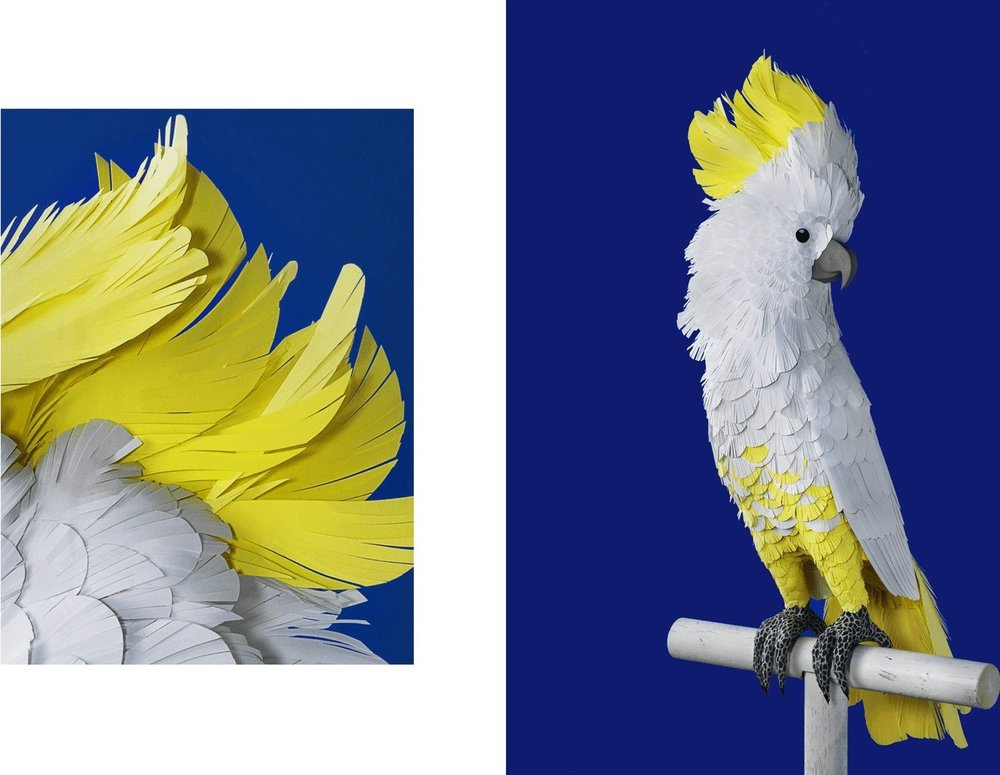
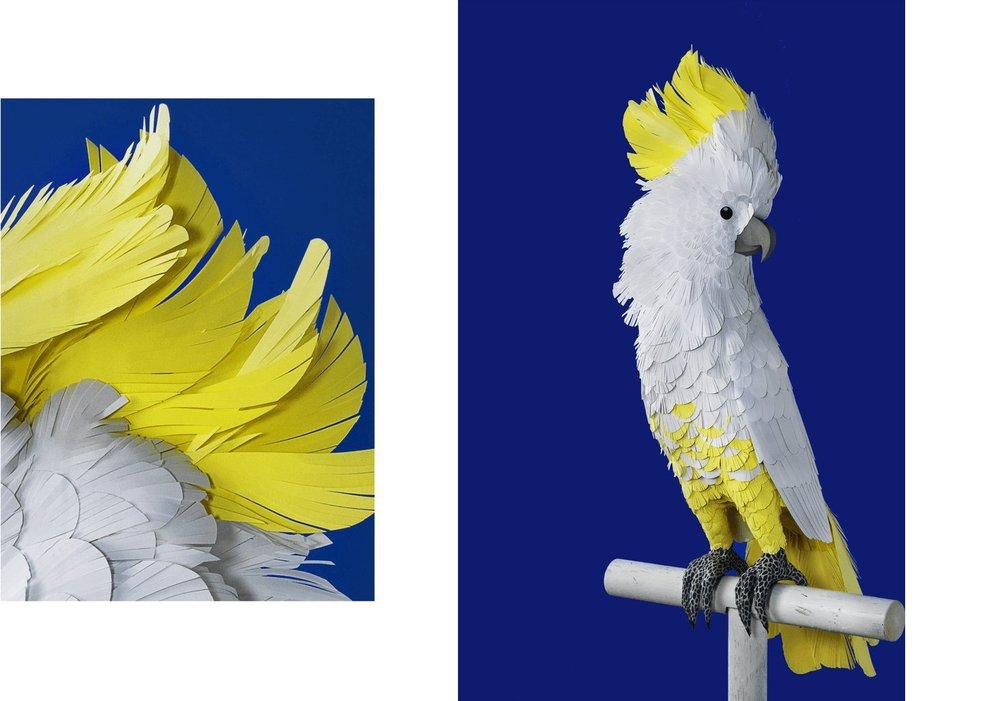
Images doubles au gabarit exact : les blancs du milieu s'alignent d'une rangee a l'autre

diff --git a/en/projects.html b/en/projects.html
@@ -26,11 +26,11 @@
   <a class="pj rv" href="p-klassic-eyewear" style="--c:#36557a" data-rub="Animation et film"><span class="pj__im"><img src="../img/projets/klassic-eyewear/00_m.jpg" srcset="../img/projets/klassic-eyewear/00_t.jpg 292w, ../img/projets/klassic-eyewear/00_m.jpg 562w, ../img/projets/klassic-eyewear/00.jpg 900w" sizes="(max-width:760px) 100vw, 700px" width="900" height="1600" alt="Klassic Eyewear, Shape of Joy" loading="lazy" decoding="async"></span><span class="pj__t"><b>Klassic Eyewear, Shape of Joy</b><span class="pj__s">Apollo Thomas · Klassic Eyewear</span><span class="mi">Animation and film</span></span></a>
   <a class="pj rv" href="p-burberry-beauty" style="--c:#899dbe" data-rub="Campagnes"><span class="pj__im"><img src="../img/projets/burberry-beauty/01_m.jpg" srcset="../img/projets/burberry-beauty/01_t.jpg 520w, ../img/projets/burberry-beauty/01_m.jpg 1000w, ../img/projets/burberry-beauty/01.jpg 1252w" sizes="(max-width:760px) 100vw, 700px" width="1252" height="1252" alt="Burberry Beauty, Goddess et Hero" loading="lazy" decoding="async"></span><span class="pj__t"><b>Burberry Beauty, Goddess et Hero</b><span class="pj__s">Mathilde Loubes · Burberry Beauty</span><span class="mi">Campaigns</span></span></a>
   <a class="pj rv" href="p-chanel-coco-crush" style="--c:#fee232" data-rub="Animation et film"><span class="pj__im"><img src="../img/projets/chanel-coco-crush/00_m.jpg" srcset="../img/projets/chanel-coco-crush/00_t.jpg 520w, ../img/projets/chanel-coco-crush/00_m.jpg 600w, ../img/projets/chanel-coco-crush/00.jpg 600w" sizes="(max-width:760px) 100vw, 700px" width="600" height="338" alt="Chanel, Coco Crush" loading="lazy" decoding="async"></span><span class="pj__t"><b>Chanel, Coco Crush</b><span class="pj__s">Clément Soulmagnon · Chanel</span><span class="mi">Animation and film</span></span></a>
-  <a class="pj rv" href="p-contes-des-fetes-2023" style="--c:#bf4d82" data-rub="Animation et film"><span class="pj__im"><img src="../img/projets/contes-des-fetes-2023/00_m.jpg" srcset="../img/projets/contes-des-fetes-2023/00_t.jpg 520w, ../img/projets/contes-des-fetes-2023/00_m.jpg 1000w, ../img/projets/contes-des-fetes-2023/00.jpg 1447w" sizes="(max-width:760px) 100vw, 700px" width="1447" height="1035" alt="Trois contes pour les fêtes 2023" loading="lazy" decoding="async"></span><span class="pj__t"><b>Trois contes pour les fêtes 2023</b><span class="pj__s">Lila Poppins · Eddy</span><span class="mi">Animation and film</span></span></a>
+  <a class="pj rv" href="p-contes-des-fetes-2023" style="--c:#bf4d82" data-rub="Animation et film"><span class="pj__im"><img src="../img/projets/contes-des-fetes-2023/00_m.jpg" srcset="../img/projets/contes-des-fetes-2023/00_t.jpg 520w, ../img/projets/contes-des-fetes-2023/00_m.jpg 1000w, ../img/projets/contes-des-fetes-2023/00.jpg 1476w" sizes="(max-width:760px) 100vw, 700px" width="1476" height="1035" alt="Trois contes pour les fêtes 2023" loading="lazy" decoding="async"></span><span class="pj__t"><b>Trois contes pour les fêtes 2023</b><span class="pj__s">Lila Poppins · Eddy</span><span class="mi">Animation and film</span></span></a>
   <a class="pj rv" href="p-apple-store-champs-elysees" style="--c:#fee232" data-rub="Scénographie et installations"><span class="pj__im"><img src="../img/projets/apple-store-champs-elysees/00_m.jpg" srcset="../img/projets/apple-store-champs-elysees/00_t.jpg 346w, ../img/projets/apple-store-champs-elysees/00_m.jpg 665w, ../img/projets/apple-store-champs-elysees/00.jpg 1064w" sizes="(max-width:760px) 100vw, 700px" width="1064" height="1600" alt="Apple Store Champs-Élysées" loading="lazy" decoding="async"></span><span class="pj__t"><b>Apple Store Champs-Élysées</b><span class="pj__s">Clément Soulmagnon · Apple</span><span class="mi">Set design and installations</span></span></a>
   <a class="pj rv" href="p-coty-infinity" style="--c:#bf4d82" data-rub="Scénographie et installations"><span class="pj__im"><img src="../img/projets/coty-infinity/00_m.jpg" srcset="../img/projets/coty-infinity/00_t.jpg 520w, ../img/projets/coty-infinity/00_m.jpg 1000w, ../img/projets/coty-infinity/00.jpg 1476w" sizes="(max-width:760px) 100vw, 700px" width="1476" height="1035" alt="Coty, Infinity" loading="lazy" decoding="async"></span><span class="pj__t"><b>Coty, Infinity</b><span class="pj__s">Lila Poppins · Coty</span><span class="mi">Set design and installations</span></span></a>
   <a class="pj rv" href="p-hermes-china-world" style="--c:#fee232" data-rub="Animation et film"><span class="pj__im"><img src="../img/projets/hermes-china-world/00_m.jpg" srcset="../img/projets/hermes-china-world/00_t.jpg 520w, ../img/projets/hermes-china-world/00_m.jpg 1000w, ../img/projets/hermes-china-world/00.jpg 1280w" sizes="(max-width:760px) 100vw, 700px" width="1280" height="720" alt="Hermès, China World" loading="lazy" decoding="async"></span><span class="pj__t"><b>Hermès, China World</b><span class="pj__s">Clément Soulmagnon · Hermès</span><span class="mi">Animation and film</span></span></a>
-  <a class="pj rv" href="p-aeroports-de-paris-la-parade" style="--c:#bf4d82" data-rub="Scénographie et installations"><span class="pj__im"><img src="../img/projets/aeroports-de-paris-la-parade/00_m.jpg" srcset="../img/projets/aeroports-de-paris-la-parade/00_t.jpg 520w, ../img/projets/aeroports-de-paris-la-parade/00_m.jpg 1000w, ../img/projets/aeroports-de-paris-la-parade/00.jpg 1456w" sizes="(max-width:760px) 100vw, 700px" width="1456" height="1035" alt="Aéroports de Paris, La Parade" loading="lazy" decoding="async"></span><span class="pj__t"><b>Aéroports de Paris, La Parade</b><span class="pj__s">Lila Poppins · Aéroports de Paris</span><span class="mi">Set design and installations</span></span></a>
+  <a class="pj rv" href="p-aeroports-de-paris-la-parade" style="--c:#bf4d82" data-rub="Scénographie et installations"><span class="pj__im"><img src="../img/projets/aeroports-de-paris-la-parade/00_m.jpg" srcset="../img/projets/aeroports-de-paris-la-parade/00_t.jpg 520w, ../img/projets/aeroports-de-paris-la-parade/00_m.jpg 1000w, ../img/projets/aeroports-de-paris-la-parade/00.jpg 1476w" sizes="(max-width:760px) 100vw, 700px" width="1476" height="1035" alt="Aéroports de Paris, La Parade" loading="lazy" decoding="async"></span><span class="pj__t"><b>Aéroports de Paris, La Parade</b><span class="pj__s">Lila Poppins · Aéroports de Paris</span><span class="mi">Set design and installations</span></span></a>
   <a class="pj rv" href="p-marie-claire-vintage-love" style="--c:#bf4d82" data-rub="Édition et presse"><span class="pj__im"><img src="../img/projets/marie-claire-vintage-love/00_m.jpg" srcset="../img/projets/marie-claire-vintage-love/00_t.jpg 520w, ../img/projets/marie-claire-vintage-love/00_m.jpg 1000w, ../img/projets/marie-claire-vintage-love/00.jpg 1476w" sizes="(max-width:760px) 100vw, 700px" width="1476" height="1035" alt="Marie Claire, Vintage love" loading="lazy" decoding="async"></span><span class="pj__t"><b>Marie Claire, Vintage love</b><span class="pj__s">Lila Poppins · Marie Claire</span><span class="mi">Publishing and press</span></span></a>
   <a class="pj rv" href="p-fete-du-cinema-d-animation" style="--c:#6c94a0" data-rub="Affiches et prints"><span class="pj__im"><img src="../img/projets/fete-du-cinema-d-animation/00_m.jpg" srcset="../img/projets/fete-du-cinema-d-animation/00_t.jpg 348w, ../img/projets/fete-du-cinema-d-animation/00_m.jpg 669w, ../img/projets/fete-du-cinema-d-animation/00.jpg 1071w" sizes="(max-width:760px) 100vw, 700px" width="1071" height="1600" alt="Affiche de la 25e Fête du cinéma d'animation" loading="lazy" decoding="async"></span><span class="pj__t"><b>Affiche de la 25e Fête du cinéma d'animation</b><span class="pj__s">Chloé Farr · AFCA</span><span class="mi">Posters and prints</span></span></a>
  </div>

diff --git a/projects.html b/projects.html
@@ -26,11 +26,11 @@
   <a class="pj rv" href="p-klassic-eyewear" style="--c:#36557a" data-rub="Animation et film"><span class="pj__im"><img src="img/projets/klassic-eyewear/00_m.jpg" srcset="img/projets/klassic-eyewear/00_t.jpg 292w, img/projets/klassic-eyewear/00_m.jpg 562w, img/projets/klassic-eyewear/00.jpg 900w" sizes="(max-width:760px) 100vw, 700px" width="900" height="1600" alt="Klassic Eyewear, Shape of Joy" loading="lazy" decoding="async"></span><span class="pj__t"><b>Klassic Eyewear, Shape of Joy</b><span class="pj__s">Apollo Thomas · Klassic Eyewear</span><span class="mi">Animation et film</span></span></a>
   <a class="pj rv" href="p-burberry-beauty" style="--c:#899dbe" data-rub="Campagnes"><span class="pj__im"><img src="img/projets/burberry-beauty/01_m.jpg" srcset="img/projets/burberry-beauty/01_t.jpg 520w, img/projets/burberry-beauty/01_m.jpg 1000w, img/projets/burberry-beauty/01.jpg 1252w" sizes="(max-width:760px) 100vw, 700px" width="1252" height="1252" alt="Burberry Beauty, Goddess et Hero" loading="lazy" decoding="async"></span><span class="pj__t"><b>Burberry Beauty, Goddess et Hero</b><span class="pj__s">Mathilde Loubes · Burberry Beauty</span><span class="mi">Campagnes</span></span></a>
   <a class="pj rv" href="p-chanel-coco-crush" style="--c:#fee232" data-rub="Animation et film"><span class="pj__im"><img src="img/projets/chanel-coco-crush/00_m.jpg" srcset="img/projets/chanel-coco-crush/00_t.jpg 520w, img/projets/chanel-coco-crush/00_m.jpg 600w, img/projets/chanel-coco-crush/00.jpg 600w" sizes="(max-width:760px) 100vw, 700px" width="600" height="338" alt="Chanel, Coco Crush" loading="lazy" decoding="async"></span><span class="pj__t"><b>Chanel, Coco Crush</b><span class="pj__s">Clément Soulmagnon · Chanel</span><span class="mi">Animation et film</span></span></a>
-  <a class="pj rv" href="p-contes-des-fetes-2023" style="--c:#bf4d82" data-rub="Animation et film"><span class="pj__im"><img src="img/projets/contes-des-fetes-2023/00_m.jpg" srcset="img/projets/contes-des-fetes-2023/00_t.jpg 520w, img/projets/contes-des-fetes-2023/00_m.jpg 1000w, img/projets/contes-des-fetes-2023/00.jpg 1447w" sizes="(max-width:760px) 100vw, 700px" width="1447" height="1035" alt="Trois contes pour les fêtes 2023" loading="lazy" decoding="async"></span><span class="pj__t"><b>Trois contes pour les fêtes 2023</b><span class="pj__s">Lila Poppins · Eddy</span><span class="mi">Animation et film</span></span></a>
+  <a class="pj rv" href="p-contes-des-fetes-2023" style="--c:#bf4d82" data-rub="Animation et film"><span class="pj__im"><img src="img/projets/contes-des-fetes-2023/00_m.jpg" srcset="img/projets/contes-des-fetes-2023/00_t.jpg 520w, img/projets/contes-des-fetes-2023/00_m.jpg 1000w, img/projets/contes-des-fetes-2023/00.jpg 1476w" sizes="(max-width:760px) 100vw, 700px" width="1476" height="1035" alt="Trois contes pour les fêtes 2023" loading="lazy" decoding="async"></span><span class="pj__t"><b>Trois contes pour les fêtes 2023</b><span class="pj__s">Lila Poppins · Eddy</span><span class="mi">Animation et film</span></span></a>
   <a class="pj rv" href="p-apple-store-champs-elysees" style="--c:#fee232" data-rub="Scénographie et installations"><span class="pj__im"><img src="img/projets/apple-store-champs-elysees/00_m.jpg" srcset="img/projets/apple-store-champs-elysees/00_t.jpg 346w, img/projets/apple-store-champs-elysees/00_m.jpg 665w, img/projets/apple-store-champs-elysees/00.jpg 1064w" sizes="(max-width:760px) 100vw, 700px" width="1064" height="1600" alt="Apple Store Champs-Élysées" loading="lazy" decoding="async"></span><span class="pj__t"><b>Apple Store Champs-Élysées</b><span class="pj__s">Clément Soulmagnon · Apple</span><span class="mi">Scénographie et installations</span></span></a>
   <a class="pj rv" href="p-coty-infinity" style="--c:#bf4d82" data-rub="Scénographie et installations"><span class="pj__im"><img src="img/projets/coty-infinity/00_m.jpg" srcset="img/projets/coty-infinity/00_t.jpg 520w, img/projets/coty-infinity/00_m.jpg 1000w, img/projets/coty-infinity/00.jpg 1476w" sizes="(max-width:760px) 100vw, 700px" width="1476" height="1035" alt="Coty, Infinity" loading="lazy" decoding="async"></span><span class="pj__t"><b>Coty, Infinity</b><span class="pj__s">Lila Poppins · Coty</span><span class="mi">Scénographie et installations</span></span></a>
   <a class="pj rv" href="p-hermes-china-world" style="--c:#fee232" data-rub="Animation et film"><span class="pj__im"><img src="img/projets/hermes-china-world/00_m.jpg" srcset="img/projets/hermes-china-world/00_t.jpg 520w, img/projets/hermes-china-world/00_m.jpg 1000w, img/projets/hermes-china-world/00.jpg 1280w" sizes="(max-width:760px) 100vw, 700px" width="1280" height="720" alt="Hermès, China World" loading="lazy" decoding="async"></span><span class="pj__t"><b>Hermès, China World</b><span class="pj__s">Clément Soulmagnon · Hermès</span><span class="mi">Animation et film</span></span></a>
-  <a class="pj rv" href="p-aeroports-de-paris-la-parade" style="--c:#bf4d82" data-rub="Scénographie et installations"><span class="pj__im"><img src="img/projets/aeroports-de-paris-la-parade/00_m.jpg" srcset="img/projets/aeroports-de-paris-la-parade/00_t.jpg 520w, img/projets/aeroports-de-paris-la-parade/00_m.jpg 1000w, img/projets/aeroports-de-paris-la-parade/00.jpg 1456w" sizes="(max-width:760px) 100vw, 700px" width="1456" height="1035" alt="Aéroports de Paris, La Parade" loading="lazy" decoding="async"></span><span class="pj__t"><b>Aéroports de Paris, La Parade</b><span class="pj__s">Lila Poppins · Aéroports de Paris</span><span class="mi">Scénographie et installations</span></span></a>
+  <a class="pj rv" href="p-aeroports-de-paris-la-parade" style="--c:#bf4d82" data-rub="Scénographie et installations"><span class="pj__im"><img src="img/projets/aeroports-de-paris-la-parade/00_m.jpg" srcset="img/projets/aeroports-de-paris-la-parade/00_t.jpg 520w, img/projets/aeroports-de-paris-la-parade/00_m.jpg 1000w, img/projets/aeroports-de-paris-la-parade/00.jpg 1476w" sizes="(max-width:760px) 100vw, 700px" width="1476" height="1035" alt="Aéroports de Paris, La Parade" loading="lazy" decoding="async"></span><span class="pj__t"><b>Aéroports de Paris, La Parade</b><span class="pj__s">Lila Poppins · Aéroports de Paris</span><span class="mi">Scénographie et installations</span></span></a>
   <a class="pj rv" href="p-marie-claire-vintage-love" style="--c:#bf4d82" data-rub="Édition et presse"><span class="pj__im"><img src="img/projets/marie-claire-vintage-love/00_m.jpg" srcset="img/projets/marie-claire-vintage-love/00_t.jpg 520w, img/projets/marie-claire-vintage-love/00_m.jpg 1000w, img/projets/marie-claire-vintage-love/00.jpg 1476w" sizes="(max-width:760px) 100vw, 700px" width="1476" height="1035" alt="Marie Claire, Vintage love" loading="lazy" decoding="async"></span><span class="pj__t"><b>Marie Claire, Vintage love</b><span class="pj__s">Lila Poppins · Marie Claire</span><span class="mi">Édition et presse</span></span></a>
   <a class="pj rv" href="p-fete-du-cinema-d-animation" style="--c:#6c94a0" data-rub="Affiches et prints"><span class="pj__im"><img src="img/projets/fete-du-cinema-d-animation/00_m.jpg" srcset="img/projets/fete-du-cinema-d-animation/00_t.jpg 348w, img/projets/fete-du-cinema-d-animation/00_m.jpg 669w, img/projets/fete-du-cinema-d-animation/00.jpg 1071w" sizes="(max-width:760px) 100vw, 700px" width="1071" height="1600" alt="Affiche de la 25e Fête du cinéma d'animation" loading="lazy" decoding="async"></span><span class="pj__t"><b>Affiche de la 25e Fête du cinéma d'animation</b><span class="pj__s">Chloé Farr · AFCA</span><span class="mi">Affiches et prints</span></span></a>
  </div>

diff --git a/en/p-aeroports-de-paris-la-parade.html b/en/p-aeroports-de-paris-la-parade.html
@@ -35,8 +35,8 @@
  </div>
  <div class="mosaic">
  <div class="mrow rv">
-  <figure class="m m--l" style="--r:1.407" data-zoom="../img/projets/aeroports-de-paris-la-parade/00.jpg"><img src="../img/projets/aeroports-de-paris-la-parade/00_m.jpg" srcset="../img/projets/aeroports-de-paris-la-parade/00_t.jpg 520w, ../img/projets/aeroports-de-paris-la-parade/00_m.jpg 1000w, ../img/projets/aeroports-de-paris-la-parade/00.jpg 1456w" sizes="(max-width:760px) 100vw, 661px" width="1456" height="1035" alt="Aéroports de Paris, La Parade" loading="lazy" decoding="async"></figure>
-  <figure class="m m--l" style="--r:1.546" data-zoom="../img/projets/aeroports-de-paris-la-parade/01.jpg"><img src="../img/projets/aeroports-de-paris-la-parade/01_m.jpg" srcset="../img/projets/aeroports-de-paris-la-parade/01_t.jpg 520w, ../img/projets/aeroports-de-paris-la-parade/01_m.jpg 1000w, ../img/projets/aeroports-de-paris-la-parade/01.jpg 1600w" sizes="(max-width:760px) 100vw, 726px" width="1600" height="1035" alt="Aéroports de Paris, La Parade" loading="lazy" decoding="async"></figure>
+  <figure class="m m--l" style="--r:1.426" data-zoom="../img/projets/aeroports-de-paris-la-parade/00.jpg"><img src="../img/projets/aeroports-de-paris-la-parade/00_m.jpg" srcset="../img/projets/aeroports-de-paris-la-parade/00_t.jpg 520w, ../img/projets/aeroports-de-paris-la-parade/00_m.jpg 1000w, ../img/projets/aeroports-de-paris-la-parade/00.jpg 1476w" sizes="(max-width:760px) 100vw, 666px" width="1476" height="1035" alt="Aéroports de Paris, La Parade" loading="lazy" decoding="async"></figure>
+  <figure class="m m--l" style="--r:1.546" data-zoom="../img/projets/aeroports-de-paris-la-parade/01.jpg"><img src="../img/projets/aeroports-de-paris-la-parade/01_m.jpg" srcset="../img/projets/aeroports-de-paris-la-parade/01_t.jpg 520w, ../img/projets/aeroports-de-paris-la-parade/01_m.jpg 1000w, ../img/projets/aeroports-de-paris-la-parade/01.jpg 1600w" sizes="(max-width:760px) 100vw, 721px" width="1600" height="1035" alt="Aéroports de Paris, La Parade" loading="lazy" decoding="async"></figure>
  </div>
  <div class="mrow rv">
   <figure class="m m--l" style="--r:1.427" data-zoom="../img/projets/aeroports-de-paris-la-parade/02.jpg"><img src="../img/projets/aeroports-de-paris-la-parade/02_m.jpg" srcset="../img/projets/aeroports-de-paris-la-parade/02_t.jpg 520w, ../img/projets/aeroports-de-paris-la-parade/02_m.jpg 1000w, ../img/projets/aeroports-de-paris-la-parade/02.jpg 1477w" sizes="(max-width:760px) 100vw, 694px" width="1477" height="1035" alt="Aéroports de Paris, La Parade" loading="lazy" decoding="async"></figure>
@@ -51,8 +51,8 @@
   <figure class="m m--l" style="--r:1.546" data-zoom="../img/projets/aeroports-de-paris-la-parade/07.jpg"><img src="../img/projets/aeroports-de-paris-la-parade/07_m.jpg" srcset="../img/projets/aeroports-de-paris-la-parade/07_t.jpg 520w, ../img/projets/aeroports-de-paris-la-parade/07_m.jpg 1000w, ../img/projets/aeroports-de-paris-la-parade/07.jpg 1600w" sizes="(max-width:760px) 100vw, 721px" width="1600" height="1035" alt="Aéroports de Paris, La Parade" loading="lazy" decoding="async"></figure>
  </div>
  <div class="mrow rv">
-  <figure class="m m--l" style="--r:1.426" data-zoom="../img/projets/aeroports-de-paris-la-parade/08.jpg"><img src="../img/projets/aeroports-de-paris-la-parade/08_m.jpg" srcset="../img/projets/aeroports-de-paris-la-parade/08_t.jpg 520w, ../img/projets/aeroports-de-paris-la-parade/08_m.jpg 1000w, ../img/projets/aeroports-de-paris-la-parade/08.jpg 1476w" sizes="(max-width:760px) 100vw, 728px" width="1476" height="1035" alt="Aéroports de Paris, La Parade" loading="lazy" decoding="async"></figure>
-  <figure class="m" style="--r:1.291" data-zoom="../img/projets/aeroports-de-paris-la-parade/09.jpg"><img src="../img/projets/aeroports-de-paris-la-parade/09_m.jpg" srcset="../img/projets/aeroports-de-paris-la-parade/09_t.jpg 520w, ../img/projets/aeroports-de-paris-la-parade/09_m.jpg 1000w, ../img/projets/aeroports-de-paris-la-parade/09.jpg 1336w" sizes="(max-width:760px) 100vw, 659px" width="1336" height="1035" alt="Aéroports de Paris, La Parade" loading="lazy" decoding="async"></figure>
+  <figure class="m m--l" style="--r:1.426" data-zoom="../img/projets/aeroports-de-paris-la-parade/08.jpg"><img src="../img/projets/aeroports-de-paris-la-parade/08_m.jpg" srcset="../img/projets/aeroports-de-paris-la-parade/08_t.jpg 520w, ../img/projets/aeroports-de-paris-la-parade/08_m.jpg 1000w, ../img/projets/aeroports-de-paris-la-parade/08.jpg 1476w" sizes="(max-width:760px) 100vw, 694px" width="1476" height="1035" alt="Aéroports de Paris, La Parade" loading="lazy" decoding="async"></figure>
+  <figure class="m m--l" style="--r:1.426" data-zoom="../img/projets/aeroports-de-paris-la-parade/09.jpg"><img src="../img/projets/aeroports-de-paris-la-parade/09_m.jpg" srcset="../img/projets/aeroports-de-paris-la-parade/09_t.jpg 520w, ../img/projets/aeroports-de-paris-la-parade/09_m.jpg 1000w, ../img/projets/aeroports-de-paris-la-parade/09.jpg 1476w" sizes="(max-width:760px) 100vw, 694px" width="1476" height="1035" alt="Aéroports de Paris, La Parade" loading="lazy" decoding="async"></figure>
  </div>
  </div>
 </div>

diff --git a/p-aeroports-de-paris-la-parade.html b/p-aeroports-de-paris-la-parade.html
@@ -35,8 +35,8 @@
  </div>
  <div class="mosaic">
  <div class="mrow rv">
-  <figure class="m m--l" style="--r:1.407" data-zoom="img/projets/aeroports-de-paris-la-parade/00.jpg"><img src="img/projets/aeroports-de-paris-la-parade/00_m.jpg" srcset="img/projets/aeroports-de-paris-la-parade/00_t.jpg 520w, img/projets/aeroports-de-paris-la-parade/00_m.jpg 1000w, img/projets/aeroports-de-paris-la-parade/00.jpg 1456w" sizes="(max-width:760px) 100vw, 661px" width="1456" height="1035" alt="Aéroports de Paris, La Parade" loading="lazy" decoding="async"></figure>
-  <figure class="m m--l" style="--r:1.546" data-zoom="img/projets/aeroports-de-paris-la-parade/01.jpg"><img src="img/projets/aeroports-de-paris-la-parade/01_m.jpg" srcset="img/projets/aeroports-de-paris-la-parade/01_t.jpg 520w, img/projets/aeroports-de-paris-la-parade/01_m.jpg 1000w, img/projets/aeroports-de-paris-la-parade/01.jpg 1600w" sizes="(max-width:760px) 100vw, 726px" width="1600" height="1035" alt="Aéroports de Paris, La Parade" loading="lazy" decoding="async"></figure>
+  <figure class="m m--l" style="--r:1.426" data-zoom="img/projets/aeroports-de-paris-la-parade/00.jpg"><img src="img/projets/aeroports-de-paris-la-parade/00_m.jpg" srcset="img/projets/aeroports-de-paris-la-parade/00_t.jpg 520w, img/projets/aeroports-de-paris-la-parade/00_m.jpg 1000w, img/projets/aeroports-de-paris-la-parade/00.jpg 1476w" sizes="(max-width:760px) 100vw, 666px" width="1476" height="1035" alt="Aéroports de Paris, La Parade" loading="lazy" decoding="async"></figure>
+  <figure class="m m--l" style="--r:1.546" data-zoom="img/projets/aeroports-de-paris-la-parade/01.jpg"><img src="img/projets/aeroports-de-paris-la-parade/01_m.jpg" srcset="img/projets/aeroports-de-paris-la-parade/01_t.jpg 520w, img/projets/aeroports-de-paris-la-parade/01_m.jpg 1000w, img/projets/aeroports-de-paris-la-parade/01.jpg 1600w" sizes="(max-width:760px) 100vw, 721px" width="1600" height="1035" alt="Aéroports de Paris, La Parade" loading="lazy" decoding="async"></figure>
  </div>
  <div class="mrow rv">
   <figure class="m m--l" style="--r:1.427" data-zoom="img/projets/aeroports-de-paris-la-parade/02.jpg"><img src="img/projets/aeroports-de-paris-la-parade/02_m.jpg" srcset="img/projets/aeroports-de-paris-la-parade/02_t.jpg 520w, img/projets/aeroports-de-paris-la-parade/02_m.jpg 1000w, img/projets/aeroports-de-paris-la-parade/02.jpg 1477w" sizes="(max-width:760px) 100vw, 694px" width="1477" height="1035" alt="Aéroports de Paris, La Parade" loading="lazy" decoding="async"></figure>
@@ -51,8 +51,8 @@
   <figure class="m m--l" style="--r:1.546" data-zoom="img/projets/aeroports-de-paris-la-parade/07.jpg"><img src="img/projets/aeroports-de-paris-la-parade/07_m.jpg" srcset="img/projets/aeroports-de-paris-la-parade/07_t.jpg 520w, img/projets/aeroports-de-paris-la-parade/07_m.jpg 1000w, img/projets/aeroports-de-paris-la-parade/07.jpg 1600w" sizes="(max-width:760px) 100vw, 721px" width="1600" height="1035" alt="Aéroports de Paris, La Parade" loading="lazy" decoding="async"></figure>
  </div>
  <div class="mrow rv">
-  <figure class="m m--l" style="--r:1.426" data-zoom="img/projets/aeroports-de-paris-la-parade/08.jpg"><img src="img/projets/aeroports-de-paris-la-parade/08_m.jpg" srcset="img/projets/aeroports-de-paris-la-parade/08_t.jpg 520w, img/projets/aeroports-de-paris-la-parade/08_m.jpg 1000w, img/projets/aeroports-de-paris-la-parade/08.jpg 1476w" sizes="(max-width:760px) 100vw, 728px" width="1476" height="1035" alt="Aéroports de Paris, La Parade" loading="lazy" decoding="async"></figure>
-  <figure class="m" style="--r:1.291" data-zoom="img/projets/aeroports-de-paris-la-parade/09.jpg"><img src="img/projets/aeroports-de-paris-la-parade/09_m.jpg" srcset="img/projets/aeroports-de-paris-la-parade/09_t.jpg 520w, img/projets/aeroports-de-paris-la-parade/09_m.jpg 1000w, img/projets/aeroports-de-paris-la-parade/09.jpg 1336w" sizes="(max-width:760px) 100vw, 659px" width="1336" height="1035" alt="Aéroports de Paris, La Parade" loading="lazy" decoding="async"></figure>
+  <figure class="m m--l" style="--r:1.426" data-zoom="img/projets/aeroports-de-paris-la-parade/08.jpg"><img src="img/projets/aeroports-de-paris-la-parade/08_m.jpg" srcset="img/projets/aeroports-de-paris-la-parade/08_t.jpg 520w, img/projets/aeroports-de-paris-la-parade/08_m.jpg 1000w, img/projets/aeroports-de-paris-la-parade/08.jpg 1476w" sizes="(max-width:760px) 100vw, 694px" width="1476" height="1035" alt="Aéroports de Paris, La Parade" loading="lazy" decoding="async"></figure>
+  <figure class="m m--l" style="--r:1.426" data-zoom="img/projets/aeroports-de-paris-la-parade/09.jpg"><img src="img/projets/aeroports-de-paris-la-parade/09_m.jpg" srcset="img/projets/aeroports-de-paris-la-parade/09_t.jpg 520w, img/projets/aeroports-de-paris-la-parade/09_m.jpg 1000w, img/projets/aeroports-de-paris-la-parade/09.jpg 1476w" sizes="(max-width:760px) 100vw, 694px" width="1476" height="1035" alt="Aéroports de Paris, La Parade" loading="lazy" decoding="async"></figure>
  </div>
  </div>
 </div>

diff --git a/en/a-lila-poppins.html b/en/a-lila-poppins.html
@@ -42,12 +42,12 @@
 <div class="thead"><b>Selection</b><span></span><span class="c">Lila Poppins</span></div>
 <div class="mosaic">
  <div class="mrow rv">
-  <a class="m m--pj m--l" style="--r:1.398" href="p-contes-des-fetes-2023"><img src="../img/projets/contes-des-fetes-2023/00_m.jpg" srcset="../img/projets/contes-des-fetes-2023/00_t.jpg 520w, ../img/projets/contes-des-fetes-2023/00_m.jpg 1000w, ../img/projets/contes-des-fetes-2023/00.jpg 1447w" sizes="(max-width:760px) 100vw, 693px" width="1447" height="1035" alt="Illustration by Lila Poppins" loading="lazy" decoding="async"><span class="m__cap"><span class="mi">Project</span><b>Trois contes pour les fêtes 2023</b></span></a>
-  <a class="m m--pj m--l" style="--r:1.426" href="p-coty-infinity"><img src="../img/projets/coty-infinity/00_m.jpg" srcset="../img/projets/coty-infinity/00_t.jpg 520w, ../img/projets/coty-infinity/00_m.jpg 1000w, ../img/projets/coty-infinity/00.jpg 1476w" sizes="(max-width:760px) 100vw, 706px" width="1476" height="1035" alt="Illustration by Lila Poppins" loading="lazy" decoding="async"><span class="m__cap"><span class="mi">Project</span><b>Coty, Infinity</b></span></a>
+  <a class="m m--pj m--l" style="--r:1.426" href="p-contes-des-fetes-2023"><img src="../img/projets/contes-des-fetes-2023/00_m.jpg" srcset="../img/projets/contes-des-fetes-2023/00_t.jpg 520w, ../img/projets/contes-des-fetes-2023/00_m.jpg 1000w, ../img/projets/contes-des-fetes-2023/00.jpg 1476w" sizes="(max-width:760px) 100vw, 700px" width="1476" height="1035" alt="Illustration by Lila Poppins" loading="lazy" decoding="async"><span class="m__cap"><span class="mi">Project</span><b>Trois contes pour les fêtes 2023</b></span></a>
+  <a class="m m--pj m--l" style="--r:1.426" href="p-coty-infinity"><img src="../img/projets/coty-infinity/00_m.jpg" srcset="../img/projets/coty-infinity/00_t.jpg 520w, ../img/projets/coty-infinity/00_m.jpg 1000w, ../img/projets/coty-infinity/00.jpg 1476w" sizes="(max-width:760px) 100vw, 700px" width="1476" height="1035" alt="Illustration by Lila Poppins" loading="lazy" decoding="async"><span class="m__cap"><span class="mi">Project</span><b>Coty, Infinity</b></span></a>
  </div>
  <div class="mrow rv">
-  <a class="m m--pj m--l" style="--r:1.407" href="p-aeroports-de-paris-la-parade"><img src="../img/projets/aeroports-de-paris-la-parade/00_m.jpg" srcset="../img/projets/aeroports-de-paris-la-parade/00_t.jpg 520w, ../img/projets/aeroports-de-paris-la-parade/00_m.jpg 1000w, ../img/projets/aeroports-de-paris-la-parade/00.jpg 1456w" sizes="(max-width:760px) 100vw, 695px" width="1456" height="1035" alt="Illustration by Lila Poppins" loading="lazy" decoding="async"><span class="m__cap"><span class="mi">Project</span><b>Aéroports de Paris, La Parade</b></span></a>
-  <a class="m m--pj m--l" style="--r:1.426" href="p-marie-claire-vintage-love"><img src="../img/projets/marie-claire-vintage-love/00_m.jpg" srcset="../img/projets/marie-claire-vintage-love/00_t.jpg 520w, ../img/projets/marie-claire-vintage-love/00_m.jpg 1000w, ../img/projets/marie-claire-vintage-love/00.jpg 1476w" sizes="(max-width:760px) 100vw, 704px" width="1476" height="1035" alt="Illustration by Lila Poppins" loading="lazy" decoding="async"><span class="m__cap"><span class="mi">Project</span><b>Marie Claire, Vintage love</b></span></a>
+  <a class="m m--pj m--l" style="--r:1.426" href="p-aeroports-de-paris-la-parade"><img src="../img/projets/aeroports-de-paris-la-parade/00_m.jpg" srcset="../img/projets/aeroports-de-paris-la-parade/00_t.jpg 520w, ../img/projets/aeroports-de-paris-la-parade/00_m.jpg 1000w, ../img/projets/aeroports-de-paris-la-parade/00.jpg 1476w" sizes="(max-width:760px) 100vw, 700px" width="1476" height="1035" alt="Illustration by Lila Poppins" loading="lazy" decoding="async"><span class="m__cap"><span class="mi">Project</span><b>Aéroports de Paris, La Parade</b></span></a>
+  <a class="m m--pj m--l" style="--r:1.426" href="p-marie-claire-vintage-love"><img src="../img/projets/marie-claire-vintage-love/00_m.jpg" srcset="../img/projets/marie-claire-vintage-love/00_t.jpg 520w, ../img/projets/marie-claire-vintage-love/00_m.jpg 1000w, ../img/projets/marie-claire-vintage-love/00.jpg 1476w" sizes="(max-width:760px) 100vw, 700px" width="1476" height="1035" alt="Illustration by Lila Poppins" loading="lazy" decoding="async"><span class="m__cap"><span class="mi">Project</span><b>Marie Claire, Vintage love</b></span></a>
  </div>
  <div class="mrow rv">
   <figure class="m" style="--r:0.959" data-zoom="../img/lila-poppins/03.jpg"><img src="../img/lila-poppins/03_m.jpg" srcset="../img/lila-poppins/03_t.jpg 499w, ../img/lila-poppins/03_m.jpg 959w, ../img/lila-poppins/03.jpg 1338w" sizes="(max-width:760px) 100vw, 379px" width="1338" height="1395" alt="Illustration by Lila Poppins" loading="lazy" decoding="async"></figure>

diff --git a/a-lila-poppins.html b/a-lila-poppins.html
@@ -42,12 +42,12 @@
 <div class="thead"><b>Sélection</b><span></span><span class="c">Lila Poppins</span></div>
 <div class="mosaic">
  <div class="mrow rv">
-  <a class="m m--pj m--l" style="--r:1.398" href="p-contes-des-fetes-2023"><img src="img/projets/contes-des-fetes-2023/00_m.jpg" srcset="img/projets/contes-des-fetes-2023/00_t.jpg 520w, img/projets/contes-des-fetes-2023/00_m.jpg 1000w, img/projets/contes-des-fetes-2023/00.jpg 1447w" sizes="(max-width:760px) 100vw, 693px" width="1447" height="1035" alt="Illustration de Lila Poppins" loading="lazy" decoding="async"><span class="m__cap"><span class="mi">Projet</span><b>Trois contes pour les fêtes 2023</b></span></a>
-  <a class="m m--pj m--l" style="--r:1.426" href="p-coty-infinity"><img src="img/projets/coty-infinity/00_m.jpg" srcset="img/projets/coty-infinity/00_t.jpg 520w, img/projets/coty-infinity/00_m.jpg 1000w, img/projets/coty-infinity/00.jpg 1476w" sizes="(max-width:760px) 100vw, 706px" width="1476" height="1035" alt="Illustration de Lila Poppins" loading="lazy" decoding="async"><span class="m__cap"><span class="mi">Projet</span><b>Coty, Infinity</b></span></a>
+  <a class="m m--pj m--l" style="--r:1.426" href="p-contes-des-fetes-2023"><img src="img/projets/contes-des-fetes-2023/00_m.jpg" srcset="img/projets/contes-des-fetes-2023/00_t.jpg 520w, img/projets/contes-des-fetes-2023/00_m.jpg 1000w, img/projets/contes-des-fetes-2023/00.jpg 1476w" sizes="(max-width:760px) 100vw, 700px" width="1476" height="1035" alt="Illustration de Lila Poppins" loading="lazy" decoding="async"><span class="m__cap"><span class="mi">Projet</span><b>Trois contes pour les fêtes 2023</b></span></a>
+  <a class="m m--pj m--l" style="--r:1.426" href="p-coty-infinity"><img src="img/projets/coty-infinity/00_m.jpg" srcset="img/projets/coty-infinity/00_t.jpg 520w, img/projets/coty-infinity/00_m.jpg 1000w, img/projets/coty-infinity/00.jpg 1476w" sizes="(max-width:760px) 100vw, 700px" width="1476" height="1035" alt="Illustration de Lila Poppins" loading="lazy" decoding="async"><span class="m__cap"><span class="mi">Projet</span><b>Coty, Infinity</b></span></a>
  </div>
  <div class="mrow rv">
-  <a class="m m--pj m--l" style="--r:1.407" href="p-aeroports-de-paris-la-parade"><img src="img/projets/aeroports-de-paris-la-parade/00_m.jpg" srcset="img/projets/aeroports-de-paris-la-parade/00_t.jpg 520w, img/projets/aeroports-de-paris-la-parade/00_m.jpg 1000w, img/projets/aeroports-de-paris-la-parade/00.jpg 1456w" sizes="(max-width:760px) 100vw, 695px" width="1456" height="1035" alt="Illustration de Lila Poppins" loading="lazy" decoding="async"><span class="m__cap"><span class="mi">Projet</span><b>Aéroports de Paris, La Parade</b></span></a>
-  <a class="m m--pj m--l" style="--r:1.426" href="p-marie-claire-vintage-love"><img src="img/projets/marie-claire-vintage-love/00_m.jpg" srcset="img/projets/marie-claire-vintage-love/00_t.jpg 520w, img/projets/marie-claire-vintage-love/00_m.jpg 1000w, img/projets/marie-claire-vintage-love/00.jpg 1476w" sizes="(max-width:760px) 100vw, 704px" width="1476" height="1035" alt="Illustration de Lila Poppins" loading="lazy" decoding="async"><span class="m__cap"><span class="mi">Projet</span><b>Marie Claire, Vintage love</b></span></a>
+  <a class="m m--pj m--l" style="--r:1.426" href="p-aeroports-de-paris-la-parade"><img src="img/projets/aeroports-de-paris-la-parade/00_m.jpg" srcset="img/projets/aeroports-de-paris-la-parade/00_t.jpg 520w, img/projets/aeroports-de-paris-la-parade/00_m.jpg 1000w, img/projets/aeroports-de-paris-la-parade/00.jpg 1476w" sizes="(max-width:760px) 100vw, 700px" width="1476" height="1035" alt="Illustration de Lila Poppins" loading="lazy" decoding="async"><span class="m__cap"><span class="mi">Projet</span><b>Aéroports de Paris, La Parade</b></span></a>
+  <a class="m m--pj m--l" style="--r:1.426" href="p-marie-claire-vintage-love"><img src="img/projets/marie-claire-vintage-love/00_m.jpg" srcset="img/projets/marie-claire-vintage-love/00_t.jpg 520w, img/projets/marie-claire-vintage-love/00_m.jpg 1000w, img/projets/marie-claire-vintage-love/00.jpg 1476w" sizes="(max-width:760px) 100vw, 700px" width="1476" height="1035" alt="Illustration de Lila Poppins" loading="lazy" decoding="async"><span class="m__cap"><span class="mi">Projet</span><b>Marie Claire, Vintage love</b></span></a>
  </div>
  <div class="mrow rv">
   <figure class="m" style="--r:0.959" data-zoom="img/lila-poppins/03.jpg"><img src="img/lila-poppins/03_m.jpg" srcset="img/lila-poppins/03_t.jpg 499w, img/lila-poppins/03_m.jpg 959w, img/lila-poppins/03.jpg 1338w" sizes="(max-width:760px) 100vw, 379px" width="1338" height="1395" alt="Illustration de Lila Poppins" loading="lazy" decoding="async"></figure>

diff --git a/en/p-contes-des-fetes-2023.html b/en/p-contes-des-fetes-2023.html
@@ -35,8 +35,8 @@
  </div>
  <div class="mosaic">
  <div class="mrow rv">
-  <figure class="m m--l" style="--r:1.398" data-zoom="../img/projets/contes-des-fetes-2023/00.jpg"><img src="../img/projets/contes-des-fetes-2023/00_m.jpg" srcset="../img/projets/contes-des-fetes-2023/00_t.jpg 520w, ../img/projets/contes-des-fetes-2023/00_m.jpg 1000w, ../img/projets/contes-des-fetes-2023/00.jpg 1447w" sizes="(max-width:760px) 100vw, 898px" width="1447" height="1035" alt="Trois contes pour les fêtes 2023" loading="lazy" decoding="async"></figure>
-  <figure class="m" style="--r:0.762" data-zoom="../img/projets/contes-des-fetes-2023/01.jpg"><img src="../img/projets/contes-des-fetes-2023/01_m.jpg" srcset="../img/projets/contes-des-fetes-2023/01_t.jpg 396w, ../img/projets/contes-des-fetes-2023/01_m.jpg 762w, ../img/projets/contes-des-fetes-2023/01.jpg 1080w" sizes="(max-width:760px) 100vw, 489px" width="1080" height="1417" alt="Trois contes pour les fêtes 2023" loading="lazy" decoding="async"></figure>
+  <figure class="m m--l" style="--r:1.426" data-zoom="../img/projets/contes-des-fetes-2023/00.jpg"><img src="../img/projets/contes-des-fetes-2023/00_m.jpg" srcset="../img/projets/contes-des-fetes-2023/00_t.jpg 520w, ../img/projets/contes-des-fetes-2023/00_m.jpg 1000w, ../img/projets/contes-des-fetes-2023/00.jpg 1476w" sizes="(max-width:760px) 100vw, 904px" width="1476" height="1035" alt="Trois contes pour les fêtes 2023" loading="lazy" decoding="async"></figure>
+  <figure class="m" style="--r:0.762" data-zoom="../img/projets/contes-des-fetes-2023/01.jpg"><img src="../img/projets/contes-des-fetes-2023/01_m.jpg" srcset="../img/projets/contes-des-fetes-2023/01_t.jpg 396w, ../img/projets/contes-des-fetes-2023/01_m.jpg 762w, ../img/projets/contes-des-fetes-2023/01.jpg 1080w" sizes="(max-width:760px) 100vw, 483px" width="1080" height="1417" alt="Trois contes pour les fêtes 2023" loading="lazy" decoding="async"></figure>
  </div>
  <div class="mrow rv">
   <figure class="m m--l" style="--r:1.426" data-zoom="../img/projets/contes-des-fetes-2023/02.jpg"><img src="../img/projets/contes-des-fetes-2023/02_m.jpg" srcset="../img/projets/contes-des-fetes-2023/02_t.jpg 520w, ../img/projets/contes-des-fetes-2023/02_m.jpg 1000w, ../img/projets/contes-des-fetes-2023/02.jpg 1476w" sizes="(max-width:760px) 100vw, 888px" width="1476" height="1035" alt="Trois contes pour les fêtes 2023" loading="lazy" decoding="async"></figure>

diff --git a/p-contes-des-fetes-2023.html b/p-contes-des-fetes-2023.html
@@ -35,8 +35,8 @@
  </div>
  <div class="mosaic">
  <div class="mrow rv">
-  <figure class="m m--l" style="--r:1.398" data-zoom="img/projets/contes-des-fetes-2023/00.jpg"><img src="img/projets/contes-des-fetes-2023/00_m.jpg" srcset="img/projets/contes-des-fetes-2023/00_t.jpg 520w, img/projets/contes-des-fetes-2023/00_m.jpg 1000w, img/projets/contes-des-fetes-2023/00.jpg 1447w" sizes="(max-width:760px) 100vw, 898px" width="1447" height="1035" alt="Trois contes pour les fêtes 2023" loading="lazy" decoding="async"></figure>
-  <figure class="m" style="--r:0.762" data-zoom="img/projets/contes-des-fetes-2023/01.jpg"><img src="img/projets/contes-des-fetes-2023/01_m.jpg" srcset="img/projets/contes-des-fetes-2023/01_t.jpg 396w, img/projets/contes-des-fetes-2023/01_m.jpg 762w, img/projets/contes-des-fetes-2023/01.jpg 1080w" sizes="(max-width:760px) 100vw, 489px" width="1080" height="1417" alt="Trois contes pour les fêtes 2023" loading="lazy" decoding="async"></figure>
+  <figure class="m m--l" style="--r:1.426" data-zoom="img/projets/contes-des-fetes-2023/00.jpg"><img src="img/projets/contes-des-fetes-2023/00_m.jpg" srcset="img/projets/contes-des-fetes-2023/00_t.jpg 520w, img/projets/contes-des-fetes-2023/00_m.jpg 1000w, img/projets/contes-des-fetes-2023/00.jpg 1476w" sizes="(max-width:760px) 100vw, 904px" width="1476" height="1035" alt="Trois contes pour les fêtes 2023" loading="lazy" decoding="async"></figure>
+  <figure class="m" style="--r:0.762" data-zoom="img/projets/contes-des-fetes-2023/01.jpg"><img src="img/projets/contes-des-fetes-2023/01_m.jpg" srcset="img/projets/contes-des-fetes-2023/01_t.jpg 396w, img/projets/contes-des-fetes-2023/01_m.jpg 762w, img/projets/contes-des-fetes-2023/01.jpg 1080w" sizes="(max-width:760px) 100vw, 483px" width="1080" height="1417" alt="Trois contes pour les fêtes 2023" loading="lazy" decoding="async"></figure>
  </div>
  <div class="mrow rv">
   <figure class="m m--l" style="--r:1.426" data-zoom="img/projets/contes-des-fetes-2023/02.jpg"><img src="img/projets/contes-des-fetes-2023/02_m.jpg" srcset="img/projets/contes-des-fetes-2023/02_t.jpg 520w, img/projets/contes-des-fetes-2023/02_m.jpg 1000w, img/projets/contes-des-fetes-2023/02.jpg 1476w" sizes="(max-width:760px) 100vw, 888px" width="1476" height="1035" alt="Trois contes pour les fêtes 2023" loading="lazy" decoding="async"></figure>
